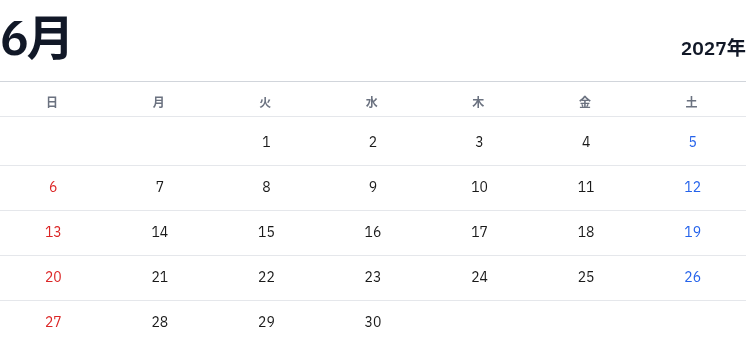
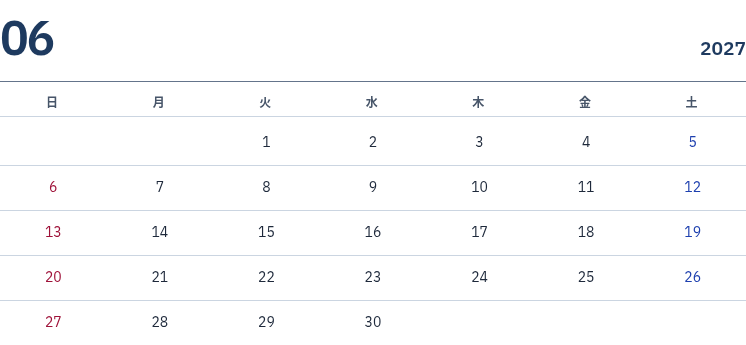
Customize Practical Left and Smart presets

diff --git a/src/components/sidebar/AppearanceSection.tsx b/src/components/sidebar/AppearanceSection.tsx
@@ -1,3 +1,4 @@
+import type { CalendarState } from "@/stores/types";
 import {
   CALENDAR_LAYOUTS,
   getPresetStyle,
@@ -16,6 +17,7 @@ const thumbnails = import.meta.glob<string>("../../../screenshots/layouts/*.png"
 });
 export function AppearanceSection() {
   const style = useCalendarStore((s) => s.calendarStyle);
+  const weekdayFormat = useCalendarStore((s) => s.weekdayFormat);
   const themeId = useCalendarStore((s) => s.themeId);
   const holidayMarkStyle = useCalendarStore((s) => s.holidayMarkStyle);
   const fontId = useCalendarStore((s) => s.fontId);
@@ -38,7 +40,15 @@ export function AppearanceSection() {
               fontId: presetFontId,
               monthLabelFormat: presetMonthFormat,
             } = preset;
-            const appearance = "appearance" in preset ? preset.appearance : undefined;
+            const appearance: Partial<
+              Pick<CalendarState, "themeId" | "holidayMarkStyle" | "weekdayFormat">
+            > = "appearance" in preset ? preset.appearance : {};
+            const hasAppearanceOverrides =
+              (appearance.themeId !== undefined && themeId !== appearance.themeId) ||
+              (appearance.holidayMarkStyle !== undefined &&
+                holidayMarkStyle !== appearance.holidayMarkStyle) ||
+              (appearance.weekdayFormat !== undefined &&
+                weekdayFormat !== appearance.weekdayFormat);
             return (
               <button
                 key={id}
@@ -69,9 +79,7 @@ export function AppearanceSection() {
                     imagePosition !== page.imagePosition ||
                     fontId !== presetFontId ||
                     monthLabelFormat !== presetMonthFormat ||
-                    (appearance &&
-                      (themeId !== appearance.themeId ||
-                        holidayMarkStyle !== appearance.holidayMarkStyle))) && (
+                    hasAppearanceOverrides) && (
                     <span className="text-on-surface-variant">調整済み</span>
                   )}
               </button>

diff --git a/tests/e2e/calendar-layouts.spec.ts b/tests/e2e/calendar-layouts.spec.ts
@@ -36,8 +36,8 @@ test("selects calendar presets and exports the date list", async ({ page }) => {
     ["書き込み用", "writing"],
     ["クラシカル", "centered"],
     ["モダン", "right-aligned"],
-    ["年月を上下に", "stacked"],
-    ["月は左、年は右", "split"],
+    ["実用的な左揃え", "stacked"],
+    ["スマート", "split"],
     ["左サイド見出し", "side-title"],
     ["日付カード", "cards"],
     ["週ごとの帯", "week-bands"],
@@ -90,7 +90,7 @@ test("selects calendar presets and exports the date list", async ({ page }) => {
 
   const dates = calendar.locator(".calendar-list-weekday");
   await expect(dates).toHaveCount(31);
-  await expect(dates.first()).toHaveText("Fri");
+  await expect(dates.first()).toHaveText("金");
 
   await page.getByRole("button", { name: "出力", exact: true }).click();
   const pendingDownload = page.waitForEvent("download");
@@ -245,4 +245,20 @@ test("aligns the Modern heading, weekdays, and underlined holiday dates", async 
       }),
     )
     .toBeLessThan(1);
+});
+
+test("applies the Practical Left and Smart preset settings", async ({ page }) => {
+  await page.goto("/");
+  await openPanel(page, "見た目");
+  const presets = page.getByRole("region", { name: "プリセット", exact: true });
+  const calendar = page.locator("[data-calendar-layout]").first();
+  await presets.getByRole("button", { name: "実用的な左揃え", exact: true }).click();
+  const weekdays = calendar.locator(".calendar-weekdays > div");
+  await expect(weekdays).toHaveText(["日", "月", "火", "水", "木", "金", "土"]);
+  await expect(weekdays.first()).toHaveCSS("font-size", "14px");
+  await expect(calendar.locator(".calendar-day-number").first()).toHaveCSS("font-size", "16px");
+
+  await presets.getByRole("button", { name: "スマート", exact: true }).click();
+  await expect(page.getByRole("button", { name: "Slate", exact: true })).toHaveClass(/ring-2/);
+  await expect(calendar.getByTestId("month-title")).toHaveText("012027");
 });

diff --git a/src/lib/calendarLayouts.ts b/src/lib/calendarLayouts.ts
@@ -35,17 +35,19 @@ export const CALENDAR_LAYOUTS = [
   },
   {
     id: "stacked",
-    label: "年月を上下に",
+    label: "実用的な左揃え",
+    appearance: { weekdayFormat: "ja" },
     page: PORTRAIT_PAGE,
     fontId: "noto-sans-jp",
     monthLabelFormat: "ja",
   },
   {
     id: "split",
-    label: "月は左、年は右",
+    label: "スマート",
+    appearance: { themeId: "dark" },
     page: PORTRAIT_PAGE,
     fontId: "ibm-plex-sans",
-    monthLabelFormat: "ja",
+    monthLabelFormat: "yyyy.mm",
   },
   {
     id: "side-title",
@@ -180,6 +182,7 @@ const LAYOUT_FONT_SIZES: Partial<
   >
 > = {
   centered: { monthFontSize: 54, dayFontSize: 16 },
+  stacked: { weekdayFontSize: 14, dayFontSize: 16 },
   "side-title": { monthFontSize: 36 },
   cards: { monthFontSize: 54, dayFontSize: 18, weekdayFontSize: 13 },
   "date-list": { monthFontSize: 40, dayFontSize: 13 },

diff --git a/README.md b/README.md
@@ -56,7 +56,7 @@ Classic と Montserrat の組み合わせで、日付の数字の太さを比較
 
 設定の「見た目 → プリセット」から、標準を含む10種類の見本を選べます。レイアウトごとの初期文字サイズで、2027年6月を中心とした見本です。プリセットごとに用紙の向きと画像の位置が切り替わります。縦リストはA4横向きで画像が左、他のプリセットはA4縦向きで画像が上です。
 
-プリセットの下にテーマとフォントがあります。「サイズと配置」では月見出しの位置・年月の並べ方・下線、日付と曜日の揃え、文字サイズ、用紙内の余白を調整できます。プリセットを選び直すと構成の初期値が入り、テーマと上余白は引き継がれます。書体と年月表記はプリセットごとの設定に切り替わります。クラシカルでは Shippori Mincho と「June 2027」の形式を使います。モダンでは Monochrome と祝日の下線を適用し、書き込み用では日付欄の枠を有効にします。
+プリセットの下にテーマとフォントがあります。「サイズと配置」では月見出しの位置・年月の並べ方・下線、日付と曜日の揃え、文字サイズ、用紙内の余白を調整できます。プリセットを選び直すと構成の初期値が入り、上余白は引き継がれます。書体と年月表記はプリセットごとの設定に切り替わり、テーマの指定がある場合はテーマも適用されます。クラシカルでは Shippori Mincho と「June 2027」の形式を使います。モダンでは Monochrome と祝日の下線を適用し、書き込み用では日付欄の枠を有効にします。
 
 日付欄の縦罫線・横罫線・枠を個別に切り替えられます。縦罫線は列の間に入り、全体を囲むには「枠」をオンにします。
 
@@ -65,8 +65,8 @@ Classic と Montserrat の組み合わせで、日付の数字の太さを比較
 | クラシカル                                            | モダン                                           |
 | ----------------------------------------------------- | ------------------------------------------------ |
 | ![クラシカル](screenshots/layouts/centered.png)       | ![モダン](screenshots/layouts/right-aligned.png) |
-| **年月を上下に**                                      | **月は左、年は右**                               |
-| ![年月を上下に](screenshots/layouts/stacked.png)      | ![月は左、年は右](screenshots/layouts/split.png) |
+| **実用的な左揃え**                                    | **スマート**                                     |
+| ![実用的な左揃え](screenshots/layouts/stacked.png)    | ![スマート](screenshots/layouts/split.png)       |
 | **左サイド見出し**                                    | **日付カード**                                   |
 | ![左サイド見出し](screenshots/layouts/side-title.png) | ![日付カード](screenshots/layouts/cards.png)     |
 | **標準**                                              | **書き込み用**                                   |
